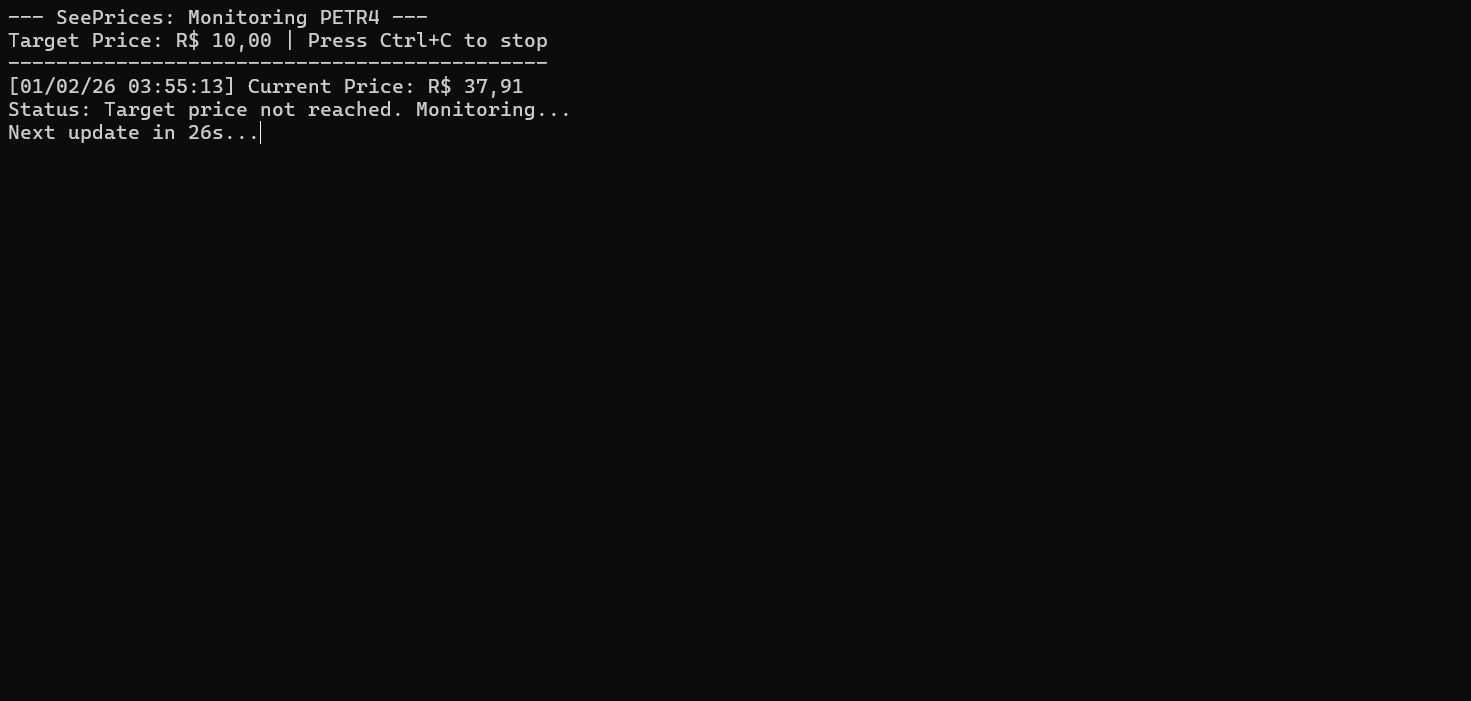
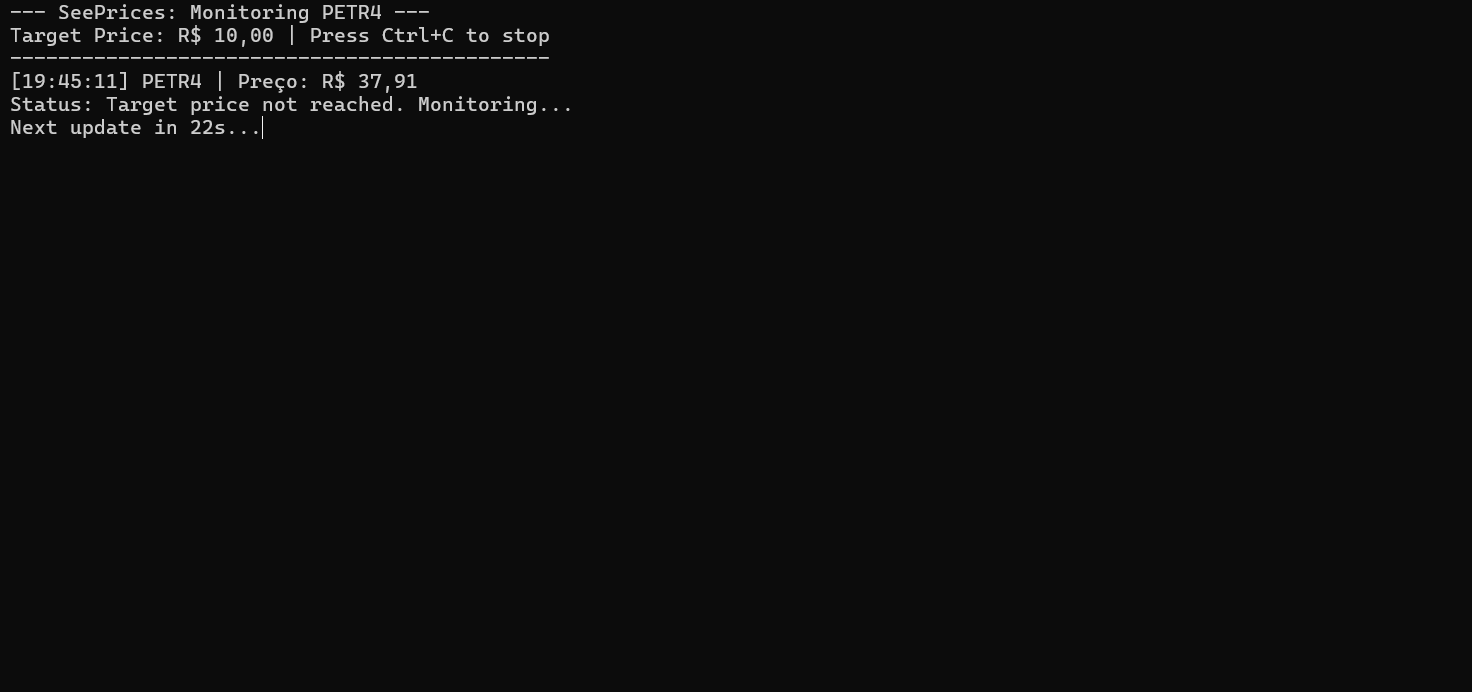
feat(core): integrate services, finalize shutdown logic and polish UI

Changed region(s): [[0.0, 0.0, 0.3671, 0.2124]]

diff --git a/SeePrices/Program.cs b/SeePrices/Program.cs
@@ -3,18 +3,36 @@ using System.Text.Json;
 using System.Globalization;
 using System.Text.RegularExpressions;
 using Microsoft.Extensions.Configuration;
+using SeePrices.Models;
+using SeePrices.Services;
+
+// Force application to use Brazilian culture (currency, decimals, date format)
+var culture = new CultureInfo("pt-BR");
+CultureInfo.DefaultThreadCurrentCulture = culture;
+CultureInfo.DefaultThreadCurrentUICulture = culture;
 
 // Data entry
 Console.WriteLine("- SeePrices: Stock Monitor -");
 
-Console.CancelKeyPress += (s, e) =>
+Logger.Log("Application started", "START");
+
+// Handle Ctrl+C to stop monitoring and persist logs
+Console.CancelKeyPress += (sender, e) =>
 {
     e.Cancel = true;
-    Console.WriteLine("\nMonitoring session terminated.");
+
+    Console.WriteLine("\n\n[SYSTEM] Ending session...");
+
+    SeePrices.Services.Logger.Log("Application stopped by user (Ctrl+C)", "STOP");
+
+    // The console stays open by 5s until close
+    System.Threading.Thread.Sleep(5000);
+
     Environment.Exit(0);
 };
 
 string ticker;
+// B3 ticker format: 4 letters + 1 or 2 numbers (e.g., PETR4, VALE3)
 string pattern = @"^[A-Z]{4}[0-9]{1,2}$";
 
 while (true)
@@ -30,7 +48,7 @@ while (true)
     Console.WriteLine("Invalid format. Please use 4 letters and 1 or 2 numbers (Ex: VALE3).");
 }
 
-decimal targetPrice = GetTargetPrice();
+decimal targetPrice = StockMonitor.GetTargetPrice();
 
 // Configuration and secrets
 var config = new ConfigurationBuilder()
@@ -45,16 +63,17 @@ if (string.IsNullOrEmpty(token))
     return;
 }
 
+Console.Clear();
+Console.WriteLine($"--- SeePrices: Monitoring {ticker} ---");
+Console.WriteLine($"Target Price: {targetPrice:C} | Press Ctrl+C to stop");
+Console.WriteLine("---------------------------------------------");
+
 // API request
 using HttpClient client = new HttpClient();
 client.Timeout = TimeSpan.FromSeconds(10);
 
 while (true)
 {
-    Console.Clear();
-    Console.WriteLine($"--- SeePrices: Monitoring {ticker} ---");
-    Console.WriteLine($"Target Price: {targetPrice:C} | Press Ctrl+C to stop");
-    Console.WriteLine("---------------------------------------------");
 
     try
     {
@@ -68,13 +87,14 @@ while (true)
             decimal currentPrice = data.results[0].regularMarketPrice;
 
             // Actual price with last update
-            Console.WriteLine($"[{DateTime.Now:dd/MM/yy HH:mm:ss}] Current Price: {currentPrice:C}");
+            Console.WriteLine($"[{DateTime.Now:HH:mm:ss}] {ticker} | Preço: {currentPrice:C}");
 
-            ProcessAlert(ticker, targetPrice, currentPrice);
+            StockMonitor.ProcessAlert(ticker, targetPrice, currentPrice);
         }
     }
     catch (HttpRequestException ex)
     {
+        Logger.Log($"Connection error while fetching {ticker}: {ex.Message}", "ERROR");
         if (ex.StatusCode == System.Net.HttpStatusCode.NotFound)
         {
             Console.WriteLine($"\nError: The ticker '{ticker}' was not found on B3.");
@@ -89,46 +109,6 @@ while (true)
         Console.Write($"\rNext update in {i:D2}s...");
         await Task.Delay(1000);
     }
-
-}
-
-// Definitions
-decimal GetTargetPrice()
-{
-    while (true)
-    {
-        Console.Write("Enter your target price: ");
-        string? input = Console.ReadLine();
-
-        if (decimal.TryParse(input, System.Globalization.NumberStyles.Any, System.Globalization.CultureInfo.InvariantCulture, out decimal price))
-            return price;
-
-        Console.WriteLine("Invalid price format.");
-    }
-}
-
-void ProcessAlert(string tickerSymbol, decimal target, decimal current)
-{
-    if (current <= target)
-    {
-        Console.WriteLine("ALERT: Time to buy!");
-
-        if (OperatingSystem.IsWindows())
-        {
-            Console.Beep(1000, 800); // Triggers a beep
-        }
-    }
-    else
-    {
-        Console.WriteLine("Status: Target price not reached. Monitoring...");
-    }
-}
-
-public class BrapiResponse
-{
-    public List<StockResult>? results { get; set; }
-}
-public class StockResult
-{
-    public decimal regularMarketPrice { get; set; }
+    // Clear countdown line before printing the next update
+    Console.Write("\r" + new string(' ', 40) + "\r");
 }

diff --git a/SeePrices/README.md b/SeePrices/README.md
@@ -1,0 +1,93 @@
+# SeePrices
+![C#](https://img.shields.io/badge/C%23-239120?style=for-the-badge&logo=c-sharp&logoColor=white)
+![.NET 10](https://img.shields.io/badge/.NET%2010-512BD4?style=for-the-badge&logo=.net&logoColor=white)
+![Status](https://img.shields.io/badge/Status-Functional-brightgreen?style=for-the-badge)
+
+**SeePrices** is a C# .NET 10 console application designed to monitor Brazilian stock prices (B3) in real-time and trigger alerts when target prices are reached.
+
+This project was built as a practical learning exercise focused on API consumption, modular architecture, culture-aware formatting, secure secret management, and persistent logging.
+
+## Demo
+
+![SeePrices in action](assets/seeprices.png)
+
+## Features
+
+- **Real-time monitoring**: Fetches stock prices every 30 seconds via [Brapi API](https://brapi.dev/)
+- **Price alerts**: Audible notification when target is reached (Windows only)
+- **Persistent logging**: All events are logged to timestamped files in the `logs/` directory
+- **Brazilian culture support**: Currency (BRL), decimals, and date formatting in pt-BR
+- **Secure credentials**: API tokens managed via .NET User Secrets (never exposed in code)
+- **Input validation**: Regex-based ticker validation and culture-aware price parsing
+- **Funcional Shutdown**: Proper Ctrl+C handling with final log persistence
+
+## Project Structure
+```
+SeePrices/
+├── Program.cs              # Entry point & monitoring loop
+├── Models/
+│   └── BrapiModels.cs      # API response DTOs
+├── Services/
+│   ├── Logger.cs           # File-based logging system
+│   └── StockMonitor.cs     # Price validation & alert handling
+└── logs/                   # Auto-generated log files (gitignored)
+```
+
+## Technologies
+
+- **C# / .NET 10**
+- **System.Text.Json** for high-performance JSON deserialization
+- **Microsoft.Extensions.Configuration** for User Secrets integration
+- **HttpClient** with async/await for non-blocking API calls
+- **Regex** for ticker format validation
+- **CultureInfo** for pt-BR numeric and currency handling
+
+## Getting Started
+
+### Prerequisites
+- .NET 10 SDK or higher
+- Free API token from [Brapi.dev](https://brapi.dev/)
+
+### Installation
+```bash
+# Clone the repository
+git clone https://github.com/EduardoCassanha/seeprices.git
+cd seeprices
+
+# Configure your API token securely
+dotnet user-secrets init
+dotnet user-secrets set "BrapiToken" "YOUR_TOKEN_HERE"
+
+# Run the application
+dotnet run
+```
+
+### Usage Example
+```
+- SeePrices: Stock Monitor -
+Enter the stock ticker (e.g., PETR4): VALE3
+Enter your target price: 65,50
+
+--- SeePrices: Monitoring VALE3 ---
+Target Price: R$ 65,50 | Press Ctrl+C to stop
+---------------------------------------------
+[14:23:15] VALE3 | Preço: R$ 67,32
+Status: Target price not reached. Monitoring...
+Next update in 30s...
+```
+
+## Roadmap
+
+- [x] Persist monitoring logs to local files
+- [x] Extract API communication into dedicated service
+- [ ] Support monitoring multiple tickers simultaneously
+- [ ] Add CSV export for historical price data
+- [ ] Implement WebSocket for real-time updates (reduce API calls)
+
+## Security Note
+
+This project uses .NET User Secrets to keep API tokens out of source control. Never commit your `BrapiToken` or any credentials to version control.
+
+## License
+
+MIT License — feel free to use this project for learning purposes.
